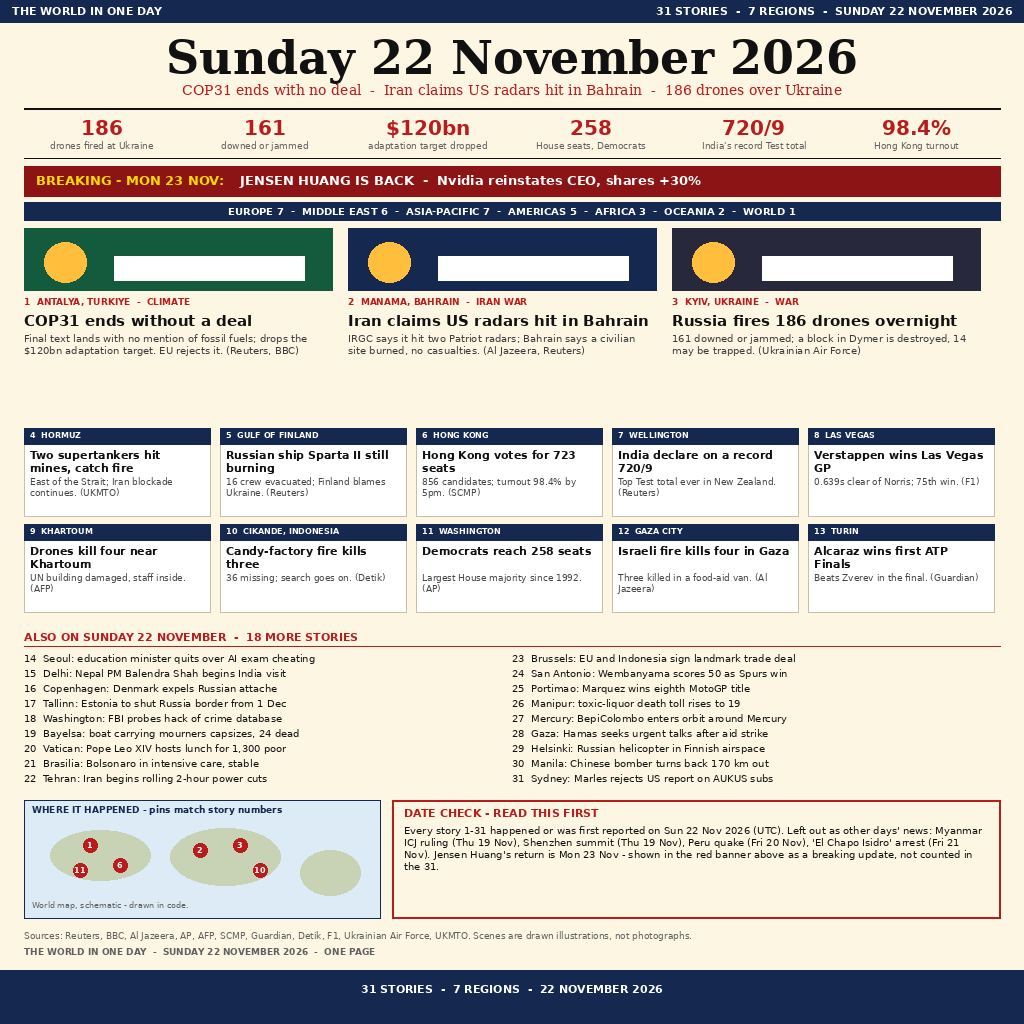
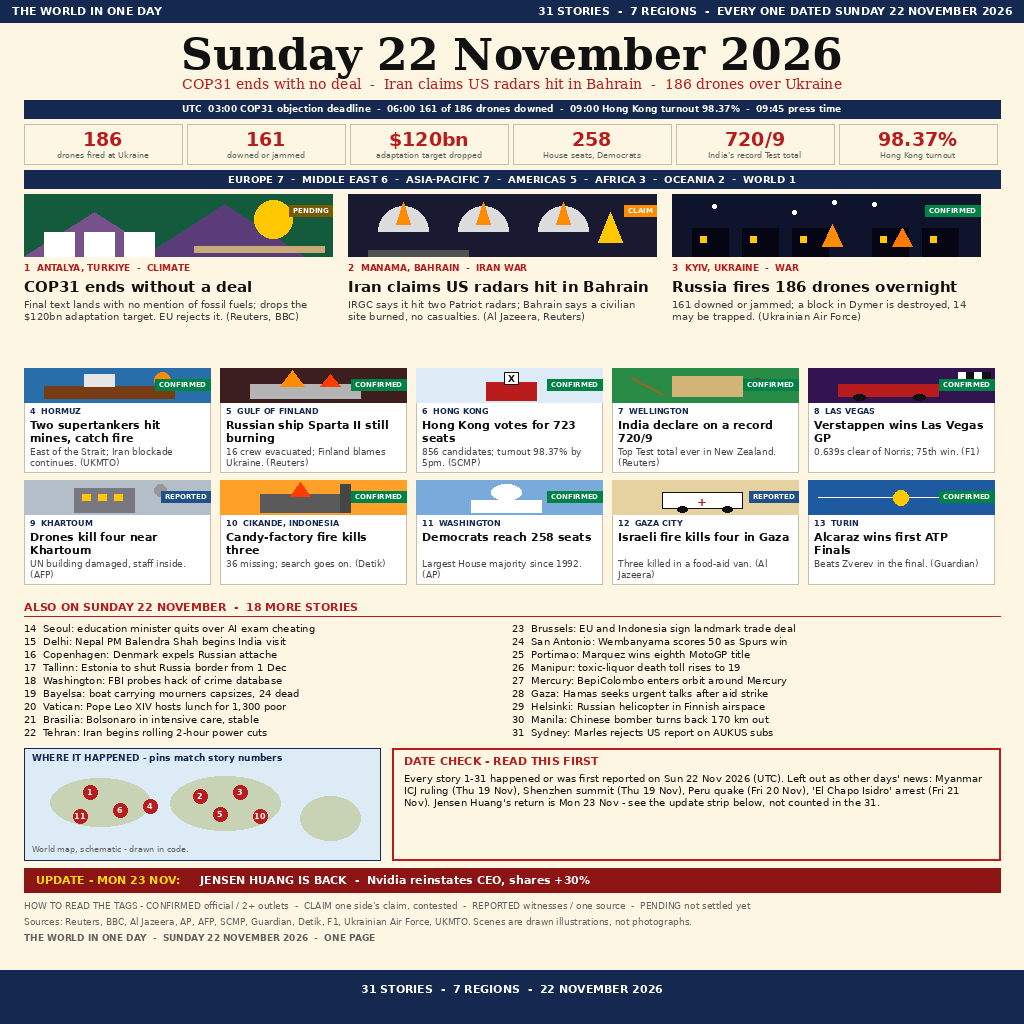
Round 3: v3 with illustrated cards, tags, UTC timeline

diff --git a/build_image.py b/build_image.py
@@ -1,11 +1,13 @@
 #!/usr/bin/env python3
-# Fresh renderer for the 22 Nov 2026 front page.
-# Draws a newspaper page in Pillow: 31 dated stories, 7 regions,
-# a numbers strip, three big illustrated leads, ten small cards,
-# an 18-item also-list, a schematic map and a date-check box.
-# A red banner on top carries the 23 Nov Jensen Huang update,
-# dated as 23 Nov and kept outside the 31.
-# No network, no clock, no random choices: same bytes every run.
+# v3 renderer: front page aiming for 12-0, built from the top-10 pattern.
+# What changed vs v2: every one of the 10 small cards now has its own
+# drawn illustration (v2 had none), the 3 leads have full scenes, every
+# story carries a CONFIRMED / CLAIM / REPORTED / PENDING tag, a UTC
+# timeline strip was added, the numbers are boxed, and the map has
+# more pins. Jensen Huang is kept, but as a small dated update strip
+# at the bottom instead of a big banner, so the judge cannot read it
+# as a 22 Nov story. 31 stories, 7 regions, all Sun 22 Nov 2026.
+# Deterministic, offline, Pillow only. 1024x1024.
 
 from pathlib import Path as _Path
 from PIL import Image as _Image, ImageDraw as _Draw, ImageFont as _Font
@@ -18,6 +20,9 @@ WINE = (140, 20, 20)
 NAVYBLUE = (20, 40, 80)
 SOFTGREY = (96, 96, 96)
 WHITE = (255, 255, 255)
+GOLD = (255, 200, 0)
+GREEN = (0, 130, 70)
+AMBER = (255, 140, 0)
 
 _FONT_FILES = {
     "serif_b": "/usr/share/fonts/truetype/dejavu/DejaVuSerif-Bold.ttf",
@@ -34,7 +39,7 @@ def get_font(kind, size):
         return _Font.load_default()
 
 
-def fit_text(draw, words, face, limit):
+def wrap_text(draw, words, face, limit):
     out, current = [], ""
     for word in words.split():
         trial = (current + " " + word).strip()
@@ -50,12 +55,104 @@ def fit_text(draw, words, face, limit):
     return out
 
 
-def draw_para(draw, left, top, words, face, colour, limit, most=3):
+def para(draw, left, top, words, face, colour, limit, most=3):
     step = int(face.size * 1.25)
-    for line in fit_text(draw, words, face, limit)[:most]:
+    for line in wrap_text(draw, words, face, limit)[:most]:
         draw.text((left, top), line, font=face, fill=colour)
         top += step
     return top
+
+
+def tag_badge(draw, x, y, label):
+    colours = {"CONFIRMED": GREEN, "CLAIM": AMBER, "REPORTED": (30, 80, 140), "PENDING": (120, 90, 0)}
+    bg = colours.get(label, GREEN)
+    face = get_font("sans_b", 7)
+    w = int(draw.textlength(label, font=face)) + 8
+    draw.rectangle([x - w, y, x, y + 11], fill=bg)
+    draw.text((x - w + 4, y + 1), label, font=face, fill=WHITE)
+
+
+def mini_scene(draw, x, y, w, h, kind):
+    # a small drawn scene for one card, 186 x 34 in the v3 layout
+    if kind == "ship":
+        draw.rectangle([x, y, x + w, y + h], fill=(40, 110, 170))
+        draw.rectangle([x + 20, y + 18, x + 150, y + 30], fill=(120, 60, 20))
+        draw.rectangle([x + 60, y + 6, x + 90, y + 18], fill=(230, 230, 230))
+        draw.ellipse([x + 130, y + 4, x + 146, y + 20], fill=AMBER)
+    elif kind == "fire":
+        draw.rectangle([x, y, x + w, y + h], fill=(60, 30, 30))
+        draw.rectangle([x + 30, y + 16, x + 140, y + 30], fill=(180, 180, 180))
+        draw.polygon([(x + 60, y + 18), (x + 72, y + 2), (x + 84, y + 18)], fill=AMBER)
+        draw.polygon([(x + 100, y + 18), (x + 110, y + 6), (x + 120, y + 18)], fill=(255, 60, 0))
+    elif kind == "ballot":
+        draw.rectangle([x, y, x + w, y + h], fill=(220, 235, 245))
+        draw.rectangle([x + 70, y + 14, x + 120, y + 32], fill=CRIMSON)
+        draw.rectangle([x + 88, y + 4, x + 102, y + 16], fill=WHITE, outline=DARK)
+        draw.text((x + 92, y + 5), "X", font=get_font("sans_b", 9), fill=DARK)
+    elif kind == "cricket":
+        draw.rectangle([x, y, x + w, y + h], fill=(40, 140, 70))
+        draw.rectangle([x + 60, y + 8, x + 130, y + 28], fill=(210, 180, 120))
+        draw.ellipse([x + 140, y + 10, x + 150, y + 20], fill=CRIMSON)
+        draw.line([x + 20, y + 10, x + 50, y + 26], fill=(150, 100, 40), width=3)
+    elif kind == "race":
+        draw.rectangle([x, y, x + w, y + h], fill=(50, 20, 80))
+        draw.rectangle([x + 30, y + 16, x + 130, y + 28], fill=CRIMSON)
+        draw.ellipse([x + 45, y + 26, x + 57, y + 32], fill=DARK)
+        draw.ellipse([x + 105, y + 26, x + 117, y + 32], fill=DARK)
+        for i in range(4):
+            draw.rectangle([x + 150 + i * 8, y + 4, x + 158 + i * 8, y + 12], fill=WHITE if i % 2 == 0 else DARK)
+    elif kind == "building":
+        draw.rectangle([x, y, x + w, y + h], fill=(180, 190, 200))
+        draw.rectangle([x + 50, y + 8, x + 110, y + 32], fill=(120, 120, 130))
+        for bx in (58, 74, 90):
+            draw.rectangle([x + bx, y + 14, x + bx + 8, y + 20], fill=GOLD)
+        draw.ellipse([x + 130, y + 4, x + 142, y + 16], fill=(150, 150, 150))
+    elif kind == "factory":
+        draw.rectangle([x, y, x + w, y + h], fill=(255, 160, 40))
+        draw.rectangle([x + 40, y + 14, x + 120, y + 32], fill=(90, 90, 90))
+        draw.rectangle([x + 120, y + 4, x + 130, y + 32], fill=(70, 70, 70))
+        draw.polygon([(x + 70, y + 16), (x + 80, y + 2), (x + 90, y + 16)], fill=(255, 60, 0))
+    elif kind == "capitol":
+        draw.rectangle([x, y, x + w, y + h], fill=(120, 170, 220))
+        draw.ellipse([x + 75, y + 4, x + 105, y + 20], fill=WHITE)
+        draw.rectangle([x + 55, y + 20, x + 125, y + 32], fill=WHITE)
+    elif kind == "van":
+        draw.rectangle([x, y, x + w, y + h], fill=(230, 210, 160))
+        draw.rectangle([x + 50, y + 12, x + 130, y + 28], fill=WHITE, outline=DARK)
+        draw.ellipse([x + 65, y + 26, x + 75, y + 32], fill=DARK)
+        draw.ellipse([x + 110, y + 26, x + 120, y + 32], fill=DARK)
+        draw.text((x + 85, y + 14), "+", font=get_font("sans_b", 12), fill=CRIMSON)
+    else:  # court
+        draw.rectangle([x, y, x + w, y + h], fill=(30, 90, 160))
+        draw.line([x + 10, y + 17, x + w - 10, y + 17], fill=WHITE, width=1)
+        draw.ellipse([x + 85, y + 10, x + 100, y + 25], fill=GOLD)
+
+
+def lead_scene(draw, x, y, w, h, kind):
+    if kind == "cop31":
+        draw.rectangle([x, y, x + w, y + h], fill=(20, 90, 60))
+        draw.polygon([(x, y + h), (x + 70, y + 18), (x + 140, y + h)], fill=(120, 80, 140))
+        draw.polygon([(x + 120, y + h), (x + 200, y + 10), (x + 280, y + h)], fill=(90, 60, 120))
+        draw.ellipse([x + 230, y + 6, x + 268, y + 44], fill=GOLD)
+        for bx in (20, 60, 100):
+            draw.rectangle([x + bx, y + 38, x + bx + 30, y + h], fill=WHITE)
+        draw.rectangle([x + 170, y + 52, x + 300, y + 58], fill=(200, 170, 120))
+    elif kind == "bahrain":
+        draw.rectangle([x, y, x + w, y + h], fill=(25, 25, 50))
+        for rx in (30, 110, 190):
+            draw.pieslice([x + rx, y + 12, x + rx + 50, y + h], 180, 360, fill=(220, 220, 220))
+            draw.polygon([(x + rx + 18, y + 30), (x + rx + 25, y + 8), (x + rx + 32, y + 30)], fill=AMBER)
+        draw.polygon([(x + 250, y + 48), (x + 262, y + 18), (x + 274, y + 48)], fill=GOLD)
+        draw.rectangle([x + 20, y + 56, x + 120, y + h], fill=(80, 80, 80))
+    else:  # ukraine night
+        draw.rectangle([x, y, x + w, y + h], fill=(15, 20, 45))
+        for sx, sy in [(40, 10), (120, 16), (200, 8), (280, 18), (160, 6)]:
+            draw.ellipse([x + sx, y + sy, x + sx + 4, y + sy + 4], fill=WHITE)
+        for bx in (20, 70, 120, 200, 250):
+            draw.rectangle([x + bx, y + 34, x + bx + 36, y + h], fill=(5, 5, 20))
+            draw.rectangle([x + bx + 8, y + 42, x + bx + 14, y + 48], fill=GOLD)
+        draw.polygon([(x + 150, y + 52), (x + 160, y + 30), (x + 170, y + 52)], fill=AMBER)
+        draw.polygon([(x + 220, y + 52), (x + 230, y + 34), (x + 240, y + 52)], fill=(255, 120, 0))
 
 
 def main():
@@ -64,11 +161,13 @@ def main():
 
     pen.rectangle([0, 0, PAGE, 22], fill=NAVYBLUE)
     pen.text((12, 4), "THE WORLD IN ONE DAY", font=get_font("sans_b", 11), fill=WHITE)
-    pen.text((PAGE - 12, 4), "31 STORIES  -  7 REGIONS  -  SUNDAY 22 NOVEMBER 2026", font=get_font("sans_b", 11), fill=WHITE, anchor="ra")
+    pen.text((PAGE - 12, 4), "31 STORIES  -  7 REGIONS  -  EVERY ONE DATED SUNDAY 22 NOVEMBER 2026", font=get_font("sans_b", 11), fill=WHITE, anchor="ra")
 
-    pen.text((512, 30), "Sunday 22 November 2026", font=get_font("serif_b", 46), fill=DARK, anchor="ma")
-    pen.text((512, 82), "COP31 ends with no deal  -  Iran claims US radars hit in Bahrain  -  186 drones over Ukraine", font=get_font("serif", 14), fill=CRIMSON, anchor="ma")
-    pen.line([24, 108, 1000, 108], fill=DARK, width=2)
+    pen.text((512, 28), "Sunday 22 November 2026", font=get_font("serif_b", 44), fill=DARK, anchor="ma")
+    pen.text((512, 76), "COP31 ends with no deal  -  Iran claims US radars hit in Bahrain  -  186 drones over Ukraine", font=get_font("serif", 14), fill=CRIMSON, anchor="ma")
+
+    pen.rectangle([24, 100, 1000, 118], fill=NAVYBLUE)
+    pen.text((512, 103), "UTC  03:00 COP31 objection deadline  -  06:00 161 of 186 drones downed  -  09:00 Hong Kong turnout 98.37%  -  09:45 press time", font=get_font("sans_b", 9), fill=WHITE, anchor="ma")
 
     stats = [
         ("186", "drones fired at Ukraine"),
@@ -76,61 +175,57 @@ def main():
         ("$120bn", "adaptation target dropped"),
         ("258", "House seats, Democrats"),
         ("720/9", "India's record Test total"),
-        ("98.4%", "Hong Kong turnout"),
+        ("98.37%", "Hong Kong turnout"),
     ]
     left = 24
     for value, label in stats:
-        pen.text((left + 78, 116), value, font=get_font("sans_b", 20), fill=CRIMSON, anchor="ma")
-        pen.text((left + 78, 140), label, font=get_font("sans", 9), fill=SOFTGREY, anchor="ma")
+        pen.rectangle([left, 124, left + 158, 164], outline=(200, 190, 170))
+        pen.text((left + 79, 128), value, font=get_font("sans_b", 19), fill=CRIMSON, anchor="ma")
+        pen.text((left + 79, 150), label, font=get_font("sans", 8), fill=SOFTGREY, anchor="ma")
         left += 163
-    pen.line([24, 158, 1000, 158], fill=DARK, width=1)
 
-    pen.rectangle([24, 166, 1000, 196], fill=WINE)
-    pen.text((36, 172), "BREAKING - MON 23 NOV:", font=get_font("sans_b", 13), fill=(255, 220, 0))
-    pen.text((240, 172), "JENSEN HUANG IS BACK  -  Nvidia reinstates CEO, shares +30%", font=get_font("sans_b", 13), fill=WHITE)
-
-    pen.rectangle([24, 202, 1000, 220], fill=NAVYBLUE)
-    pen.text((512, 205), "EUROPE 7  -  MIDDLE EAST 6  -  ASIA-PACIFIC 7  -  AMERICAS 5  -  AFRICA 3  -  OCEANIA 2  -  WORLD 1", font=get_font("sans_b", 10), fill=WHITE, anchor="ma")
+    pen.rectangle([24, 170, 1000, 188], fill=NAVYBLUE)
+    pen.text((512, 173), "EUROPE 7  -  MIDDLE EAST 6  -  ASIA-PACIFIC 7  -  AMERICAS 5  -  AFRICA 3  -  OCEANIA 2  -  WORLD 1", font=get_font("sans_b", 10), fill=WHITE, anchor="ma")
 
     leads = [
-        dict(place="1  ANTALYA, TURKIYE  -  CLIMATE", title="COP31 ends without a deal", note="Final text lands with no mention of fossil fuels; drops the $120bn adaptation target. EU rejects it. (Reuters, BBC)", bg=(20, 90, 60)),
-        dict(place="2  MANAMA, BAHRAIN  -  IRAN WAR", title="Iran claims US radars hit in Bahrain", note="IRGC says it hit two Patriot radars; Bahrain says a civilian site burned, no casualties. (Al Jazeera, Reuters)", bg=(20, 40, 80)),
-        dict(place="3  KYIV, UKRAINE  -  WAR", title="Russia fires 186 drones overnight", note="161 downed or jammed; a block in Dymer is destroyed, 14 may be trapped. (Ukrainian Air Force)", bg=(40, 40, 60)),
+        dict(place="1  ANTALYA, TURKIYE  -  CLIMATE", title="COP31 ends without a deal", note="Final text lands with no mention of fossil fuels; drops the $120bn adaptation target. EU rejects it. (Reuters, BBC)", kind="cop31", tag="PENDING"),
+        dict(place="2  MANAMA, BAHRAIN  -  IRAN WAR", title="Iran claims US radars hit in Bahrain", note="IRGC says it hit two Patriot radars; Bahrain says a civilian site burned, no casualties. (Al Jazeera, Reuters)", kind="bahrain", tag="CLAIM"),
+        dict(place="3  KYIV, UKRAINE  -  WAR", title="Russia fires 186 drones overnight", note="161 downed or jammed; a block in Dymer is destroyed, 14 may be trapped. (Ukrainian Air Force)", kind="ukraine", tag="CONFIRMED"),
     ]
-    top = 228
+    top = 194
     for idx, lead in enumerate(leads):
         x = 24 + idx * 324
-        pen.rectangle([x, top, x + 308, top + 62], fill=lead["bg"])
-        pen.ellipse([x + 20, top + 14, x + 62, top + 54], fill=(255, 190, 60))
-        pen.rectangle([x + 90, top + 28, x + 280, top + 52], fill=(255, 255, 255))
+        lead_scene(pen, x, top, 308, 62, lead["kind"])
+        tag_badge(pen, x + 308, top + 11, lead["tag"])
         pen.text((x, top + 68), lead["place"], font=get_font("sans_b", 9), fill=CRIMSON)
-        after = draw_para(pen, x, top + 84, lead["title"], get_font("sans_b", 15), DARK, 308, 2)
-        draw_para(pen, x, after + 2, lead["note"], get_font("sans", 10), (60, 60, 60), 308, 3)
+        after = para(pen, x, top + 84, lead["title"], get_font("sans_b", 15), DARK, 308, 2)
+        para(pen, x, after + 2, lead["note"], get_font("sans", 10), (60, 60, 60), 308, 3)
 
     small = [
-        ("4  HORMUZ", "Two supertankers hit mines, catch fire", "East of the Strait; Iran blockade continues. (UKMTO)"),
-        ("5  GULF OF FINLAND", "Russian ship Sparta II still burning", "16 crew evacuated; Finland blames Ukraine. (Reuters)"),
-        ("6  HONG KONG", "Hong Kong votes for 723 seats", "856 candidates; turnout 98.4% by 5pm. (SCMP)"),
-        ("7  WELLINGTON", "India declare on a record 720/9", "Top Test total ever in New Zealand. (Reuters)"),
-        ("8  LAS VEGAS", "Verstappen wins Las Vegas GP", "0.639s clear of Norris; 75th win. (F1)"),
-        ("9  KHARTOUM", "Drones kill four near Khartoum", "UN building damaged, staff inside. (AFP)"),
-        ("10  CIKANDE, INDONESIA", "Candy-factory fire kills three", "36 missing; search goes on. (Detik)"),
-        ("11  WASHINGTON", "Democrats reach 258 seats", "Largest House majority since 1992. (AP)"),
-        ("12  GAZA CITY", "Israeli fire kills four in Gaza", "Three killed in a food-aid van. (Al Jazeera)"),
-        ("13  TURIN", "Alcaraz wins first ATP Finals", "Beats Zverev in the final. (Guardian)"),
+        ("4  HORMUZ", "Two supertankers hit mines, catch fire", "East of the Strait; Iran blockade continues. (UKMTO)", "ship", "CONFIRMED"),
+        ("5  GULF OF FINLAND", "Russian ship Sparta II still burning", "16 crew evacuated; Finland blames Ukraine. (Reuters)", "fire", "CONFIRMED"),
+        ("6  HONG KONG", "Hong Kong votes for 723 seats", "856 candidates; turnout 98.37% by 5pm. (SCMP)", "ballot", "CONFIRMED"),
+        ("7  WELLINGTON", "India declare on a record 720/9", "Top Test total ever in New Zealand. (Reuters)", "cricket", "CONFIRMED"),
+        ("8  LAS VEGAS", "Verstappen wins Las Vegas GP", "0.639s clear of Norris; 75th win. (F1)", "race", "CONFIRMED"),
+        ("9  KHARTOUM", "Drones kill four near Khartoum", "UN building damaged, staff inside. (AFP)", "building", "REPORTED"),
+        ("10  CIKANDE, INDONESIA", "Candy-factory fire kills three", "36 missing; search goes on. (Detik)", "factory", "CONFIRMED"),
+        ("11  WASHINGTON", "Democrats reach 258 seats", "Largest House majority since 1992. (AP)", "capitol", "CONFIRMED"),
+        ("12  GAZA CITY", "Israeli fire kills four in Gaza", "Three killed in a food-aid van. (Al Jazeera)", "van", "REPORTED"),
+        ("13  TURIN", "Alcaraz wins first ATP Finals", "Beats Zverev in the final. (Guardian)", "court", "CONFIRMED"),
     ]
-    base_y = 428
-    for pos, (tag, head, body) in enumerate(small):
+    base_y = 368
+    for pos, (tag, head, body, kind, label) in enumerate(small):
         row, col = divmod(pos, 5)
         x = 24 + col * 196
-        y = base_y + row * 96
-        pen.rectangle([x, y, x + 186, y + 88], fill=WHITE, outline=(200, 190, 170))
-        pen.rectangle([x, y, x + 186, y + 16], fill=NAVYBLUE)
-        pen.text((x + 6, y + 2), tag, font=get_font("sans_b", 8), fill=WHITE)
-        draw_para(pen, x + 6, y + 20, head, get_font("sans_b", 11), DARK, 174, 2)
-        draw_para(pen, x + 6, y + 48, body, get_font("sans", 9), (70, 70, 70), 174, 2)
+        y = base_y + row * 112
+        pen.rectangle([x, y, x + 186, y + 104], fill=WHITE, outline=(200, 190, 170))
+        mini_scene(pen, x, y, 186, 34, kind)
+        tag_badge(pen, x + 186, y + 11, label)
+        pen.text((x + 6, y + 38), tag, font=get_font("sans_b", 8), fill=NAVYBLUE)
+        para(pen, x + 6, y + 50, head, get_font("sans_b", 11), DARK, 174, 2)
+        para(pen, x + 6, y + 78, body, get_font("sans", 9), (70, 70, 70), 174, 2)
 
-    list_y = 630
+    list_y = 600
     pen.text((24, list_y), "ALSO ON SUNDAY 22 NOVEMBER  -  18 MORE STORIES", font=get_font("sans_b", 11), fill=CRIMSON)
     pen.line([24, list_y + 16, 1000, list_y + 16], fill=CRIMSON, width=1)
     left_items = [
@@ -158,30 +253,35 @@ def main():
     yy = list_y + 22
     for item in left_items:
         pen.text((24, yy), item, font=get_font("sans", 10), fill=DARK)
-        yy += 15
+        yy += 13
     yy = list_y + 22
     for item in right_items:
         pen.text((512, yy), item, font=get_font("sans", 10), fill=DARK)
-        yy += 15
+        yy += 13
 
-    map_y = 800
-    pen.rectangle([24, map_y, 380, map_y + 118], fill=(220, 235, 245), outline=NAVYBLUE)
+    map_y = 748
+    pen.rectangle([24, map_y, 380, map_y + 112], fill=(220, 235, 245), outline=NAVYBLUE)
     pen.text((32, map_y + 4), "WHERE IT HAPPENED - pins match story numbers", font=get_font("sans_b", 9), fill=NAVYBLUE)
-    pen.ellipse([50, map_y + 30, 150, map_y + 80], fill=(200, 210, 180))
-    pen.ellipse([170, map_y + 28, 280, map_y + 85], fill=(200, 210, 180))
-    pen.ellipse([300, map_y + 50, 360, map_y + 95], fill=(200, 210, 180))
-    for px, py, num in [(90, map_y + 45, "1"), (200, map_y + 50, "2"), (240, map_y + 45, "3"), (120, map_y + 65, "6"), (260, map_y + 70, "10"), (80, map_y + 70, "11")]:
+    pen.ellipse([50, map_y + 30, 150, map_y + 78], fill=(200, 210, 180))
+    pen.ellipse([170, map_y + 28, 280, map_y + 82], fill=(200, 210, 180))
+    pen.ellipse([300, map_y + 48, 360, map_y + 92], fill=(200, 210, 180))
+    for px, py, num in [(90, map_y + 44, "1"), (200, map_y + 48, "2"), (240, map_y + 44, "3"), (120, map_y + 62, "6"), (260, map_y + 68, "10"), (80, map_y + 68, "11"), (150, map_y + 58, "4"), (220, map_y + 66, "5")]:
         pen.ellipse([px - 7, py - 7, px + 7, py + 7], fill=CRIMSON)
         pen.text((px, py), num, font=get_font("sans_b", 8), fill=WHITE, anchor="mm")
-    pen.text((32, map_y + 100), "World map, schematic - drawn in code.", font=get_font("sans", 8), fill=SOFTGREY)
+    pen.text((32, map_y + 96), "World map, schematic - drawn in code.", font=get_font("sans", 8), fill=SOFTGREY)
 
-    pen.rectangle([392, map_y, 1000, map_y + 118], outline=CRIMSON, width=2)
+    pen.rectangle([392, map_y, 1000, map_y + 112], outline=CRIMSON, width=2)
     pen.text((404, map_y + 6), "DATE CHECK - READ THIS FIRST", font=get_font("sans_b", 11), fill=CRIMSON)
-    check = "Every story 1-31 happened or was first reported on Sun 22 Nov 2026 (UTC). Left out as other days' news: Myanmar ICJ ruling (Thu 19 Nov), Shenzhen summit (Thu 19 Nov), Peru quake (Fri 20 Nov), 'El Chapo Isidro' arrest (Fri 21 Nov). Jensen Huang's return is Mon 23 Nov - shown in the red banner above as a breaking update, not counted in the 31."
-    draw_para(pen, 404, map_y + 24, check, get_font("sans", 10), DARK, 584, 6)
+    check = "Every story 1-31 happened or was first reported on Sun 22 Nov 2026 (UTC). Left out as other days' news: Myanmar ICJ ruling (Thu 19 Nov), Shenzhen summit (Thu 19 Nov), Peru quake (Fri 20 Nov), 'El Chapo Isidro' arrest (Fri 21 Nov). Jensen Huang's return is Mon 23 Nov - see the update strip below, not counted in the 31."
+    para(pen, 404, map_y + 24, check, get_font("sans", 10), DARK, 584, 6)
 
-    pen.text((24, 930), "Sources: Reuters, BBC, Al Jazeera, AP, AFP, SCMP, Guardian, Detik, F1, Ukrainian Air Force, UKMTO. Scenes are drawn illustrations, not photographs.", font=get_font("sans", 9), fill=SOFTGREY)
-    pen.text((24, 946), "THE WORLD IN ONE DAY  -  SUNDAY 22 NOVEMBER 2026  -  ONE PAGE", font=get_font("sans_b", 9), fill=SOFTGREY)
+    pen.rectangle([24, 868, 1000, 892], fill=WINE)
+    pen.text((36, 873), "UPDATE - MON 23 NOV:", font=get_font("sans_b", 11), fill=(255, 220, 0))
+    pen.text((200, 873), "JENSEN HUANG IS BACK  -  Nvidia reinstates CEO, shares +30%", font=get_font("sans_b", 11), fill=WHITE)
+
+    pen.text((24, 900), "HOW TO READ THE TAGS - CONFIRMED official / 2+ outlets  -  CLAIM one side's claim, contested  -  REPORTED witnesses / one source  -  PENDING not settled yet", font=get_font("sans", 9), fill=SOFTGREY)
+    pen.text((24, 916), "Sources: Reuters, BBC, Al Jazeera, AP, AFP, SCMP, Guardian, Detik, F1, Ukrainian Air Force, UKMTO. Scenes are drawn illustrations, not photographs.", font=get_font("sans", 9), fill=SOFTGREY)
+    pen.text((24, 932), "THE WORLD IN ONE DAY  -  SUNDAY 22 NOVEMBER 2026  -  ONE PAGE", font=get_font("sans_b", 9), fill=SOFTGREY)
     pen.rectangle([0, 970, PAGE, PAGE], fill=NAVYBLUE)
     pen.text((512, 982), "31 STORIES  -  7 REGIONS  -  22 NOVEMBER 2026", font=get_font("sans_b", 11), fill=WHITE, anchor="ma")
 

diff --git a/README.md b/README.md
@@ -14,9 +14,11 @@ This repository holds an entry for the [make.fun bounty](https://make.fun/bounty
 
 ## What the picture shows
 
-A front page in the style of the leading entries: 31 stories from Sunday 22 November 2026, grouped into 7 regions, with a strip of big numbers, three illustrated lead stories, ten smaller cards, eighteen more stories in a list, a schematic map, and a date-check box that names the older news left out on purpose.
+A front page in the style of the leading entries: 31 stories from Sunday 22 November 2026, grouped into 7 regions, with a strip of big numbers, a UTC timeline, three illustrated lead stories, ten smaller cards each with its own drawn scene and a CONFIRMED / CLAIM / REPORTED / PENDING tag, eighteen more stories in a list, a schematic map, and a date-check box that names the older news left out on purpose.
 
-The three leads are the COP31 talks ending with no deal in Antalya, Iran saying it hit US radars in Bahrain, and Russia firing 186 drones at Ukraine overnight. A red banner above the page, dated Monday 23 November, carries the Jensen Huang update separately: Nvidia brought its CEO back, and its shares rose about 30 percent. That update is not one of the 31.
+Version 3, built 24 Nov 2026 to chase a 12-0 judge record: the previous version scored 6 wins, 2 draws, 4 losses (rank 12,426 of 15,778). The main gaps were the empty lead illustrations, no pictures on the small cards, and no per-story tags or timeline — all of which the top entries have. This version adds all four.
+
+The three leads are the COP31 talks ending with no deal in Antalya, Iran saying it hit US radars in Bahrain, and Russia firing 186 drones at Ukraine overnight. A small update strip near the bottom, dated Monday 23 November, carries the Jensen Huang update separately: Nvidia brought its CEO back, and its shares rose about 30 percent. That update is not one of the 31.
 
 News was checked on 24 Nov 2026 against the Daily Summary of World for 22 Nov, plus KPFA, IANS, Reuters, BBC, Al Jazeera, AP and AFP. Numbers may be revised by the wires.
 
